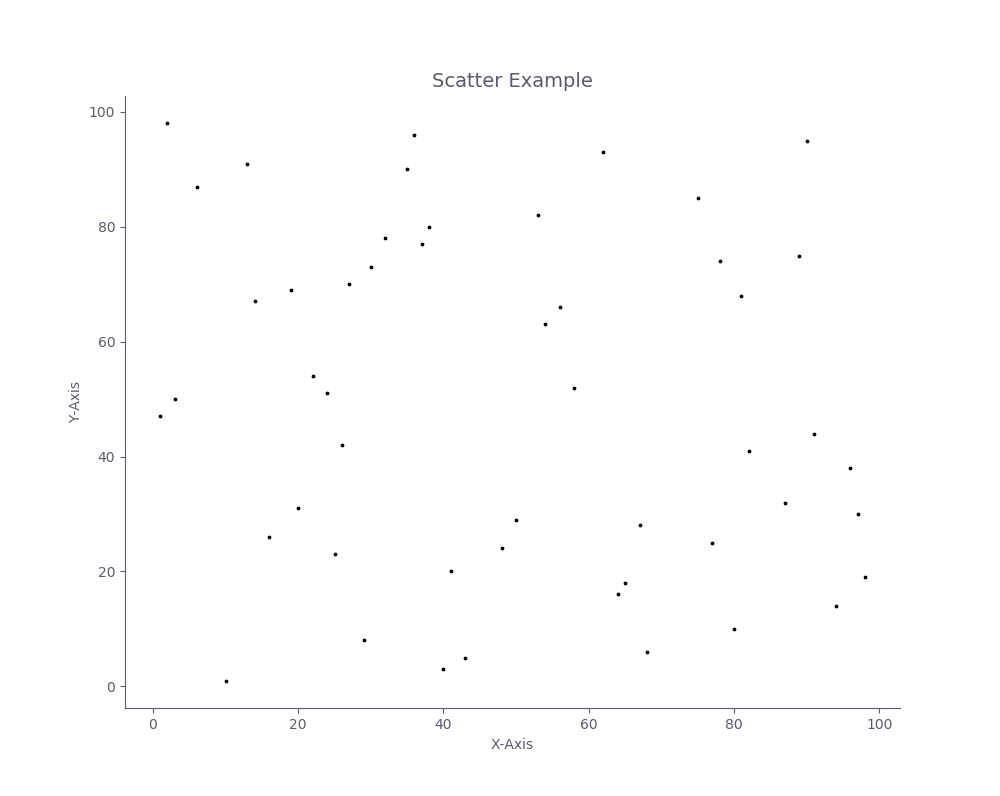
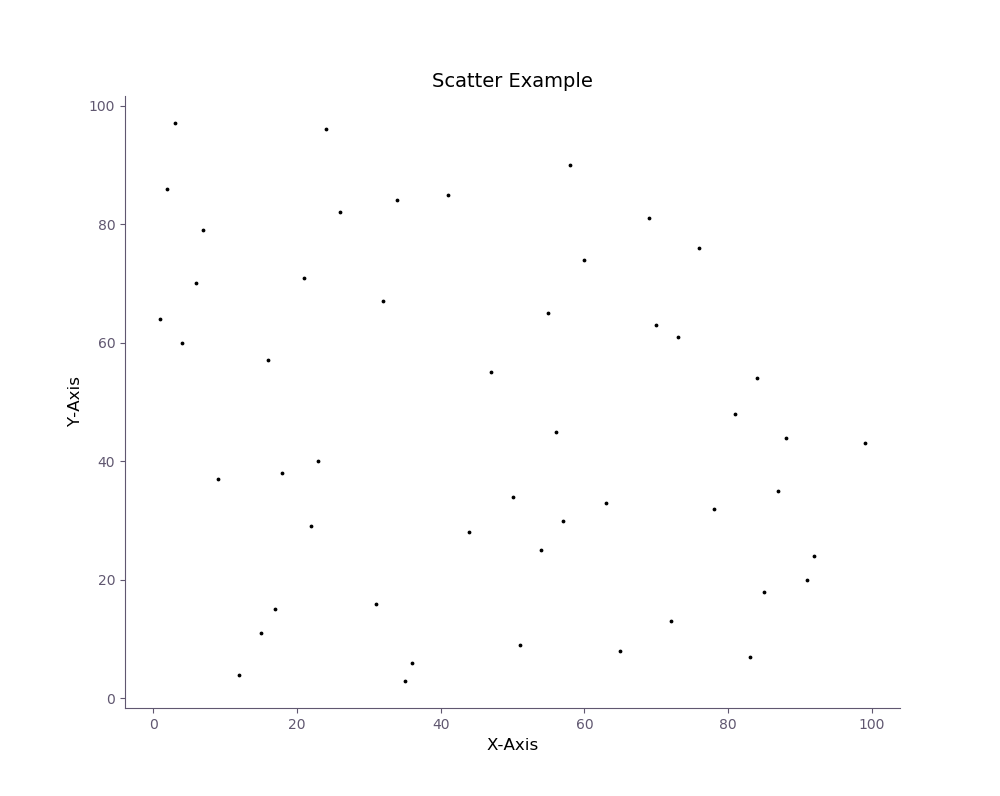
axis labels

diff --git a/goza/chart.py b/goza/chart.py
@@ -29,14 +29,14 @@ class Chart:
 
         return self.figure, self.ax
 
-    def format_title(self, color="#605770", fontsize=14):
+    def format_title(self, color="black", fontsize=14):
         """
         Format title, x label, and y label
         :return:
         """
         self.ax.set_title(self.title, color=color, fontsize=fontsize)
 
-    def format_axes(self, color="#605770"):
+    def format_axes(self, color="#605770", fontsize=12):
         """
         Format axes to my preference.  Remove top/right spines and set colors on
         left/bottom spines, ticks, and tick labels
@@ -57,8 +57,8 @@ class Chart:
         self.ax.tick_params(axis="y", colors=color)
 
         # Format labels
-        self.ax.set_xlabel(self.xlabel, color=color)
-        self.ax.set_ylabel(self.ylabel, color=color)
+        self.ax.set_xlabel(self.xlabel, fontsize=fontsize)
+        self.ax.set_ylabel(self.ylabel, fontsize=fontsize)
 
     @staticmethod
     def show():

diff --git a/setup.py b/setup.py
@@ -1,7 +1,7 @@
 import setuptools
 
 setuptools.setup(name='goza',
-                 version='0.0.5',
+                 version='0.0.6',
                  author="Zach Gongaware",
                  description='You personal Python assistant',
                  packages=setuptools.find_packages(),
